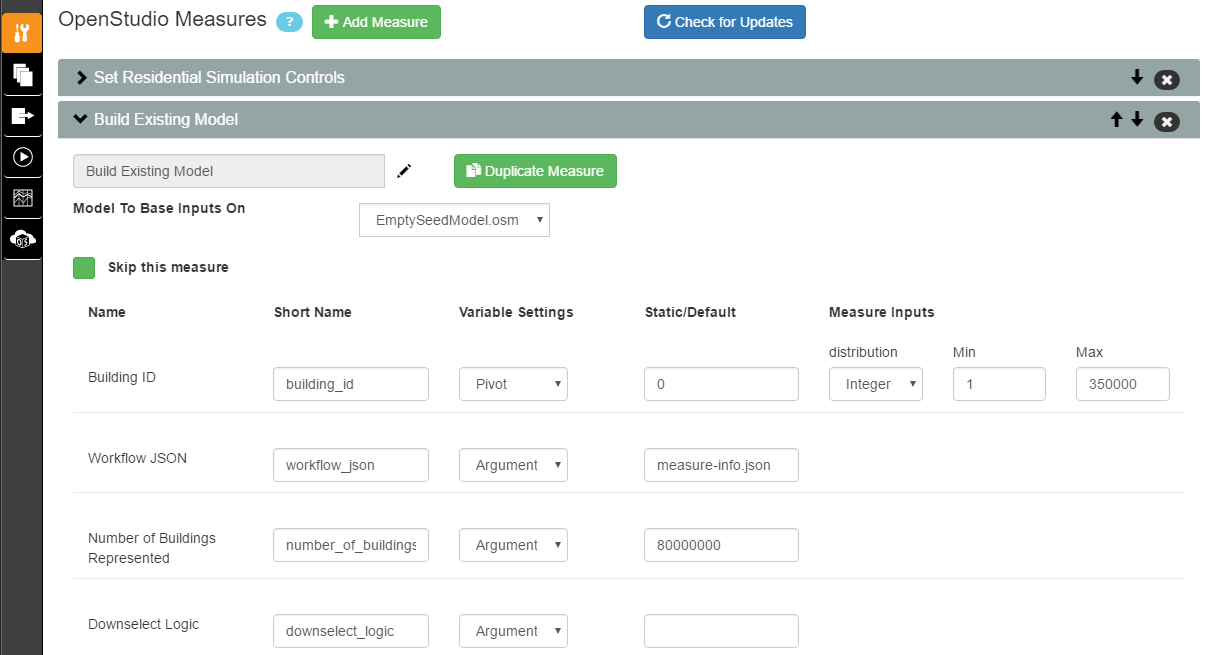
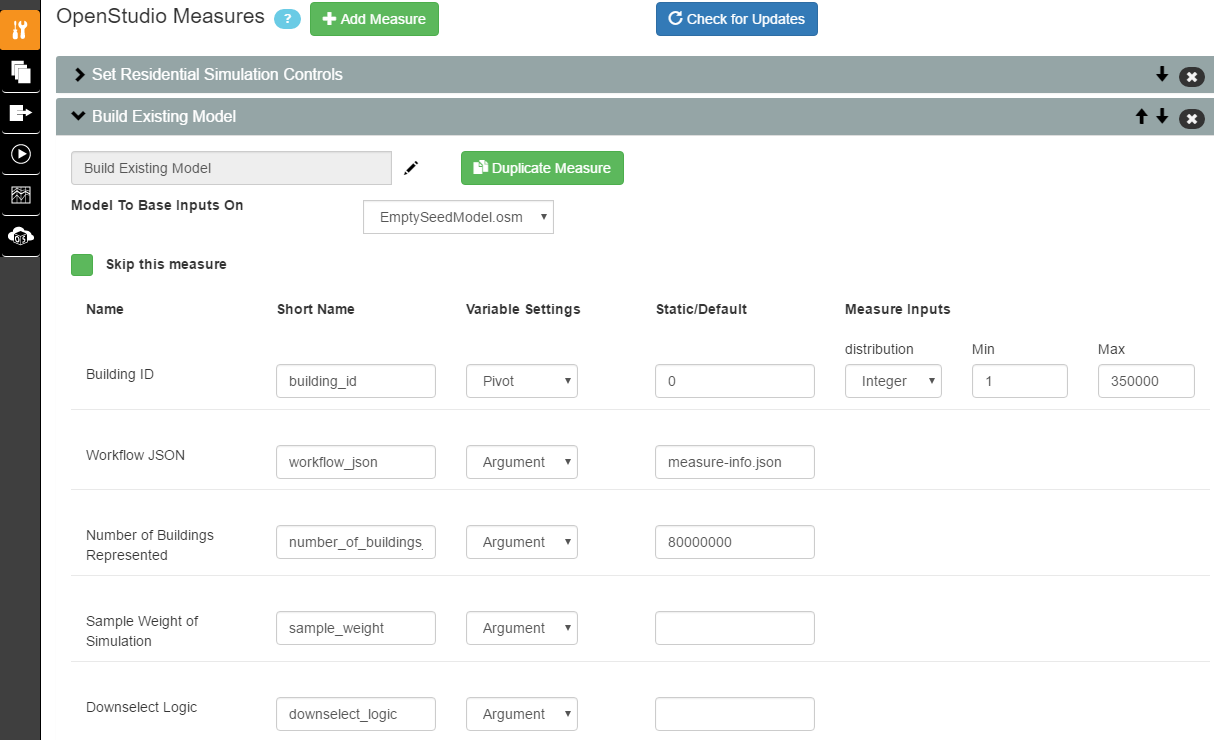
Updating docs according to new items in #92.

diff --git a/docs/source/tutorial/setup_analysis_project.rst b/docs/source/tutorial/setup_analysis_project.rst
@@ -42,17 +42,15 @@ Something you might want to change is the set of weather files used with your pr
 
 .. image:: ../images/tutorial/server_scripts_open.png
 
-Look for the **Script Arguments** box corresponding to the **Worker Initialization Script**. By default, this argument value points to the set of weather files corresponding to the specific project (i.e., set of ``housing_characteristics``) you are working with. For example, the ``project_resstock_national`` project folder will by default use the set of weather files with national geographic coverage. The path that is set as the argument value points to a zipped file stored in the (publicly accessible) `epwweatherfiles bucket`_ on Amazon S3.
-    
-By changing the argument value for this initialization script, you can control what set of weather files are unpacked and accessible on the remote server. If you wish to change this argument value to point to a different file in the S3 bucket, replace the path's basename with the path of the new file. If the desired file does not already exist in the S3 bucket, you will need to zip up a set of weather files and upload it to the S3 bucket.
+Look for the **Script Arguments** box corresponding to the **Worker Initialization Script**. By default, this argument value points to the set of weather files corresponding to the specific project (i.e., set of ``housing_characteristics``) you are working with. For example, the ``project_resstock_national`` project folder will by default use the set of weather files with national geographic coverage. In the illustration above, the argument value path points to a zipped file stored in the `epwweatherfiles bucket`_ on Amazon S3. You should have read-only access to objects in this bucket.
 
-To zip and upload new weather files to the S3 bucket:
+You can control what set of weather files are unpacked and accessible on the remote server by changing the argument value for this initialization script. If you wish to change this argument value to point to a different file in the S3 bucket, replace the path's basename with the path of the new file. If the desired file does not exist in the S3 bucket, you will need to zip up a set of weather files and upload it to some location of your choice (e.g., your own S3 bucket). Be sure to change the entire argument value path to point to this chosen file location.
+
+To zip and upload new weather files:
  - First ensure that the weather files you will be using do not already exist in the S3 bucket. If they do, just point to the appropriate zip that already contains your desired weather files.
- - If they do not, on your local computer highlight all the new epw weather files and zip them. Name the file something that pertains to the project you are working with.
- - At the `epwweatherfiles bucket`_ dashboard, click **Upload** and then **Add files**, and select your newly zipped file that contains the weather files.
- - Click **Next** and then under **Manage public permission** select "Grant public read access to this object(s)".
- - Click **Next**, then **Next**, and then **Upload**, and wait for the zip file to upload to the S3 bucket.
- - Go back to your project and update the argument value to the path of the newly uploaded item in the S3 bucket.
+ - If they do not, on your local computer highlight all the new epw weather files and zip them. (Your zip should contain only files with either the ".epw" or ".ddy" extension.)
+ - Upload your newly zipped file that contains the weather files to your new location.
+ - Go back to your project and update the argument value to the path of the newly uploaded file.
 
 .. _epwweatherfiles bucket: https://s3.console.aws.amazon.com/s3/buckets/epwweatherfiles/?region=us-east-1&tab=overview
 
@@ -86,7 +84,7 @@ Using this measure you can set the simulation timesteps per hour, as well as the
 Build Existing Model
 ^^^^^^^^^^^^^^^^^^^^
 
-This measure creates the baseline scenario. Set the following inputs:
+This measure creates the baseline scenario. It incrementally applies OpenStudio measures (located in the ``resources`` directory, which should be at the same level as your project directory) to create residential building models. Set the following inputs:
 
 .. image:: ../images/tutorial/build_existing_model.png
 
@@ -95,6 +93,9 @@ This measure creates the baseline scenario. Set the following inputs:
 
 **Number of Buildings Represented**
   The total number of buildings this sampling is meant to represent. This sets the weighting factors. For the U.S. single-family detached housing stock, this is 80 million homes. 
+  
+**Sample Weight of Simulation**
+  The number of buildings each simulation represents. Total number of buildings / Number of simulations. This argument is optional, so you can leave it blank.
   
 **Downselect Logic**
   Logic that specifies the subset of the building stock to be considered in the analysis. Specify one or more ``parameter|option`` as found in the ``resources/options_lookup.tsv``. (This uses the same syntax as the :ref:`tutorial-apply-upgrade` measure.) For example, if you wanted to only simulate California homes you could enter ``Location Region|CR11`` in this field (CR refers to "Custom Region", which is based on RECS 2009 reportable domains aggregated into groups with similar climates; see the entire `custom region map`_).
